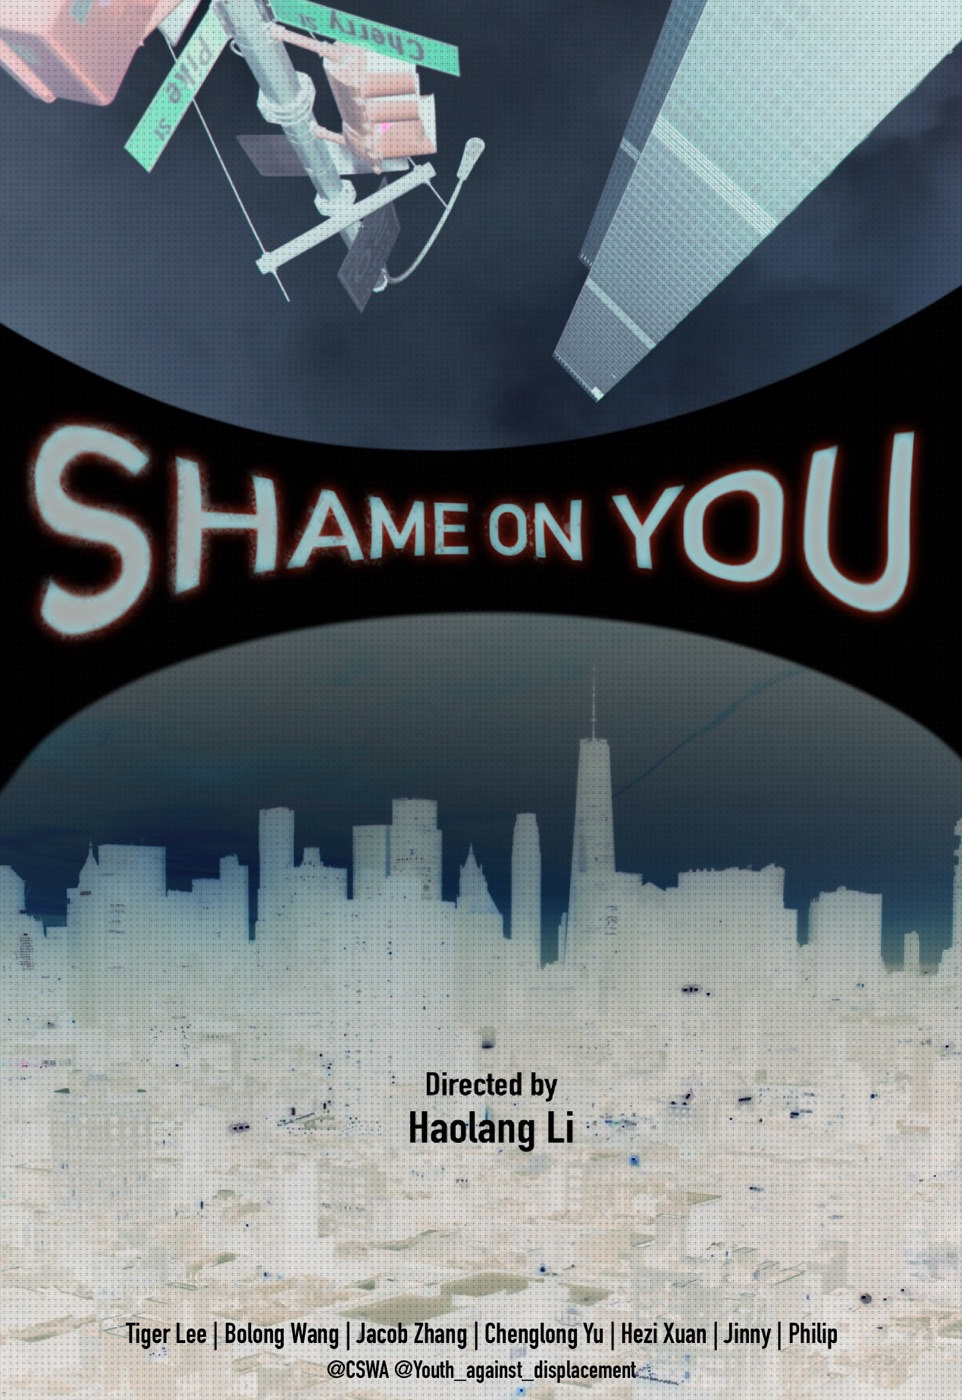
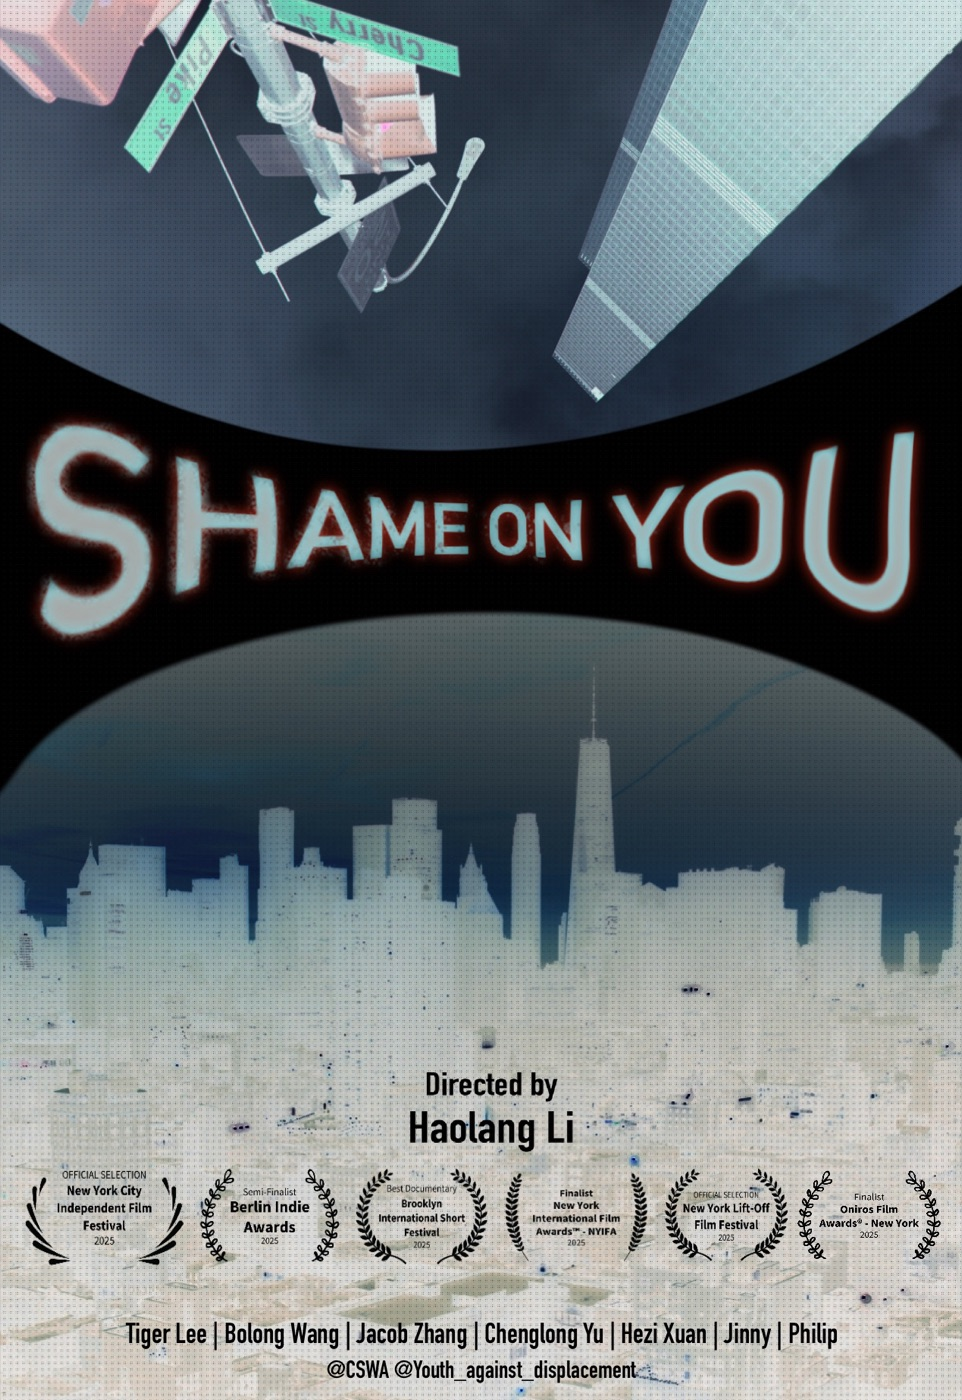
SHAME ON YOU: real stills + laurel poster, role shown on every list row
- Found on disk this time: ~/Desktop/Sept1/. 6 real stills added, in
  pasted order; project now clears the stills>=3 threshold so it
  switches to the stills-first template automatically everywhere
  (DP filter list: 3 stills + credits, no description; detail page:
  poster+meta+desc+festivals up top, 6-still grid below).
- Poster replaced with the newer version (same filename, different
  file) that has the festival laurels baked in. Festival text updated
  to match the laurels' own wording, which is more specific than the
  submission tracker's generic terms: Brooklyn International Short
  Festival "Award Winner" -> "Best Documentary"; NY Lift-Off and NYC
  Independent "Selected" -> "Official Selection".
- filmPosterRow (the poster-row list template) was the one place that
  never showed Haolang's own role at all -- fixed by switching its
  meta line from filmMetaBase to filmMetaLine, same as the stills-row
  template already did. Now every project's list row reads role
  consistently, poster format or stills format, DIRECTOR filter or DP.
- FOOD LOVER's director credit corrected to "Haolang Li, Tiger Lee"
  (co-directed, not solely Tiger Lee).
- .film-poster nudged down (312px -> 280px) and .film-desc widened
  (62ch -> 76ch) so the description block reads flatter/wider next to
  the now-larger poster instead of looking short and cramped.
- Bump asset cache-busting version to v=48

Changed region(s): [[0.0312, 0.8293, 0.9979, 0.9214]]

diff --git a/assets/app.js b/assets/app.js
@@ -137,23 +137,31 @@ const FILM_PROJECTS = [
     type: "Documentary Short",
     meta: "2024 · 18 min",
     description: "This documentary work is about real-estate, displacements, cultural groups, cocoons, and shame. By documenting the recent struggles against certain “non-profits” in Manhattan’s Chinatown, I aim to provide nuanced perspectives on the role of Chinese students in a controversy they passively drawn into. I interviewed scattered individuals representing clustered communities and agency enterprises to infiltrate the societal changes in need to be announced and addressed. This film represents my limited yet precise scope of cultural investigation on people I know. The title “Shame on You” is a slogan shouted by protesters. I hope it may be heard not only by the oppressor, but also pondered by every single one of us.",
-    // TODO: 6 stills pending export -- see poster's own "Publication" folder,
-    // which has nothing else in it yet (unlike CURED BY DEATH / FOOD LOVER).
+    // festival wording matches the laurels on the poster itself (more
+    // specific than the submission tracker's generic "Award Winner"/"Selected")
     festivals: [
       "Berlin Indie Awards — Semi-Finalist",
-      "Brooklyn International Short Festival — Award Winner",
+      "Brooklyn International Short Festival — Best Documentary",
       "New York International Film Awards™ - NYIFA — Finalist",
-      "New York Lift-Off Film Festival — Selected",
-      "New York City Independent Film Festival — Selected",
+      "New York Lift-Off Film Festival — Official Selection",
+      "New York City Independent Film Festival — Official Selection",
       "Oniros Film Awards® - New York — Finalist",
     ],
     roles: ["Director", "DP"],
+    stills: [
+      "assets/photos/films/shame-on-you/still-1.jpg",
+      "assets/photos/films/shame-on-you/still-2.jpg",
+      "assets/photos/films/shame-on-you/still-3.jpg",
+      "assets/photos/films/shame-on-you/still-4.jpg",
+      "assets/photos/films/shame-on-you/still-5.jpg",
+      "assets/photos/films/shame-on-you/still-6.jpg",
+    ],
   }),
   film("FOOD LOVER عاشق الطعام", "2024-11-10T00:00", {
     poster: "assets/photos/films/food-lover/poster.jpg",
     type: "Documentary Short",
     meta: "2024 · 18 min",
-    director: "Tiger Lee",
+    director: "Haolang Li, Tiger Lee",
     description: "Employing the cinéma vérité approach, the film observes the professional and personal life of Hesham, an Egyptian-American food cart owner, tracing how his culinary practice becomes a site for negotiating culture, religion, and migration.",
     festivals: ["Berlin Lift-Off Film Festival", "Tisch School of the Arts WinterFest"],
     roles: ["Director", "DP"],
@@ -940,7 +948,7 @@ function filmPosterRow(p, list) {
       <div class="film-poster"><img src="${p.poster}" alt="" loading="lazy"></div>
       <div class="film-info">
         <div class="film-title">${p.name}</div>
-        <div class="film-meta">${filmMetaBase(p)}</div>
+        <div class="film-meta">${filmMetaLine(p)}</div>
         <p class="film-desc">${p.description}</p>
         ${p.festivals.length ? `
           <ul class="film-festivals">${p.festivals.map(f => `<li>${f}</li>`).join("")}</ul>` : ""}

diff --git a/assets/style.css b/assets/style.css
@@ -460,7 +460,7 @@ svg { display: block; }
 .film-row:hover { background: rgba(255, 255, 255, .025); }
 [data-theme="light"] .film-row:hover { background: rgba(0, 0, 0, .02); }
 .film-poster {
-  flex: 0 0 auto; width: 312px;
+  flex: 0 0 auto; width: 280px;
   background: var(--icon-hilite, rgba(255,255,255,.06));
 }
 .film-poster img { width: 100%; height: auto; display: block; }
@@ -468,7 +468,7 @@ svg { display: block; }
 .film-title { font-size: 17px; font-weight: 700; letter-spacing: -.005em; color: var(--text); }
 .film-meta { margin-top: 4px; font-size: 11.5px; letter-spacing: .04em; color: var(--text-dim); }
 .film-role-inline { color: var(--text); font-weight: 700; }
-.film-desc { margin-top: 12px; max-width: 62ch; font-size: 14px; line-height: 1.6; color: var(--text); }
+.film-desc { margin-top: 12px; max-width: 76ch; font-size: 14px; line-height: 1.6; color: var(--text); }
 .film-festivals {
   margin-top: 14px; padding: 0; list-style: none;
   display: flex; flex-direction: column; gap: 3px;

diff --git a/index.html b/index.html
@@ -23,7 +23,7 @@
 <meta name="twitter:card" content="summary_large_image">
 <link rel="icon" type="image/png" href="assets/logo.png">
 <link rel="apple-touch-icon" href="assets/logo.png">
-<link rel="stylesheet" href="assets/style.css?v=47">
+<link rel="stylesheet" href="assets/style.css?v=48">
 </head>
 <body>
 
@@ -283,6 +283,6 @@
   <!-- context menu / quick look / get info render here -->
   <div id="overlay-layer"></div>
 
-  <script src="assets/app.js?v=47"></script>
+  <script src="assets/app.js?v=48"></script>
 </body>
 </html>
